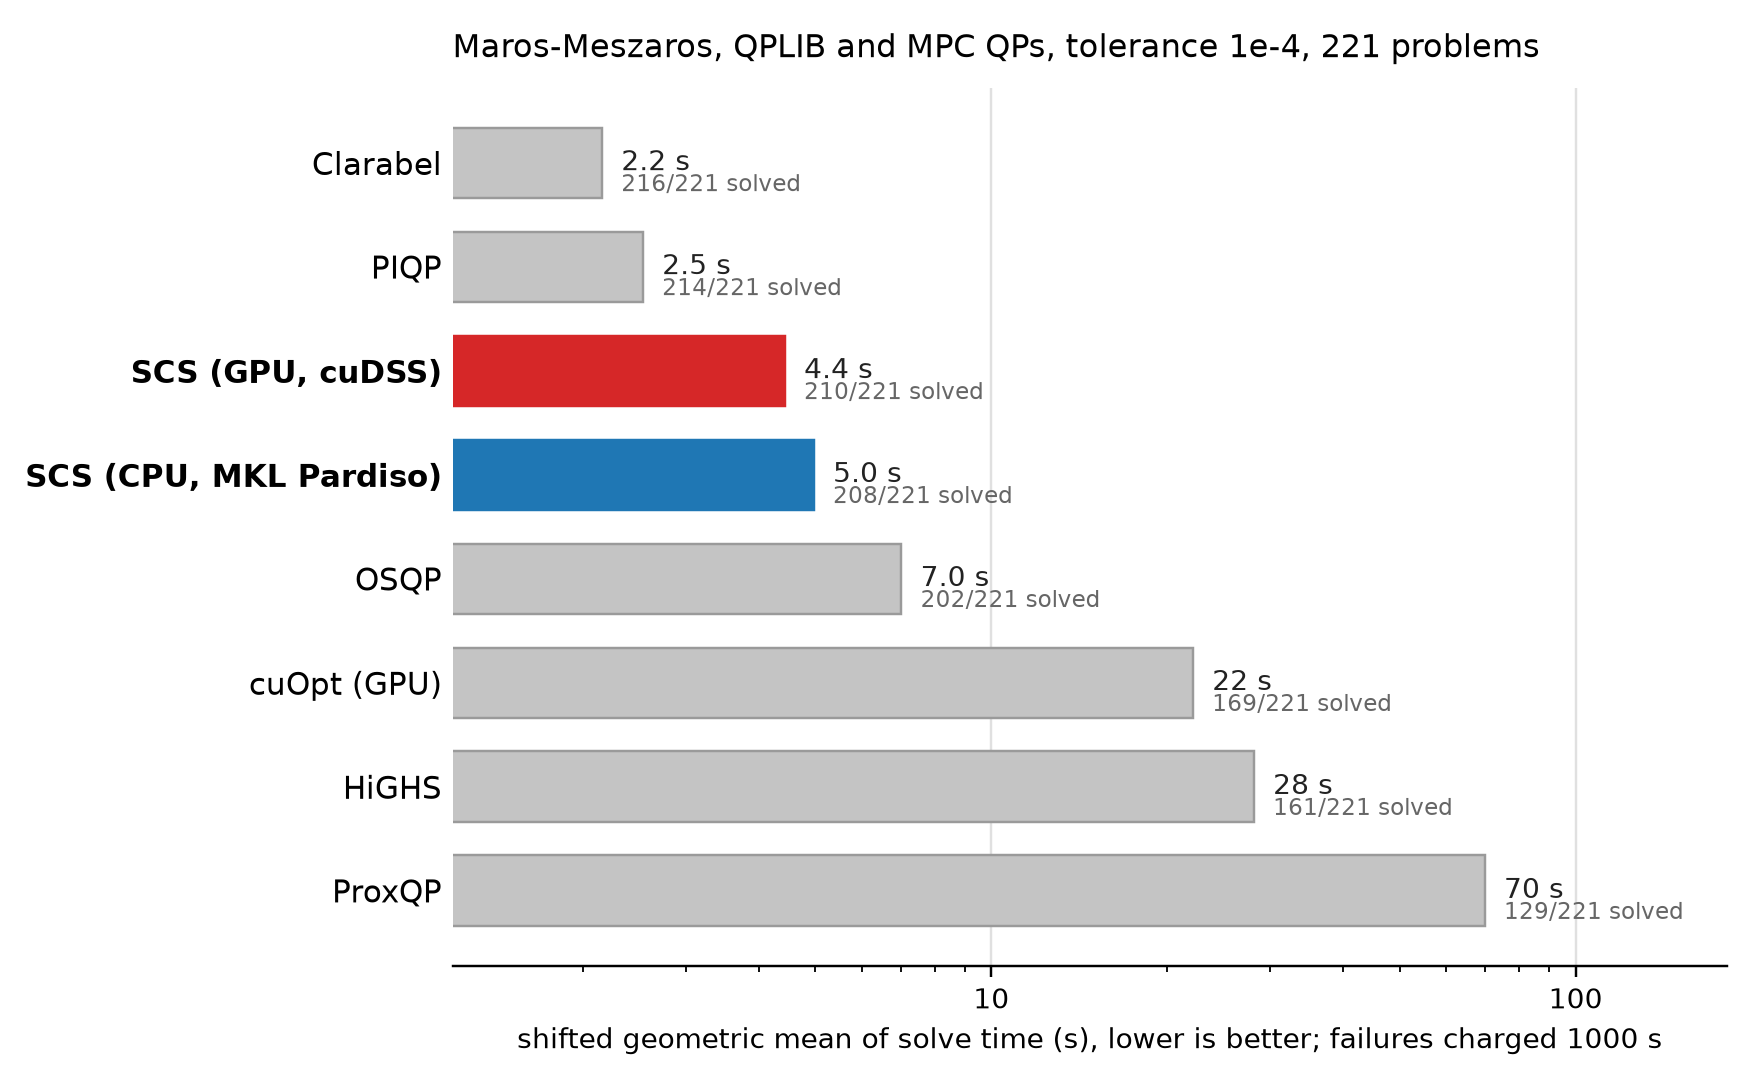
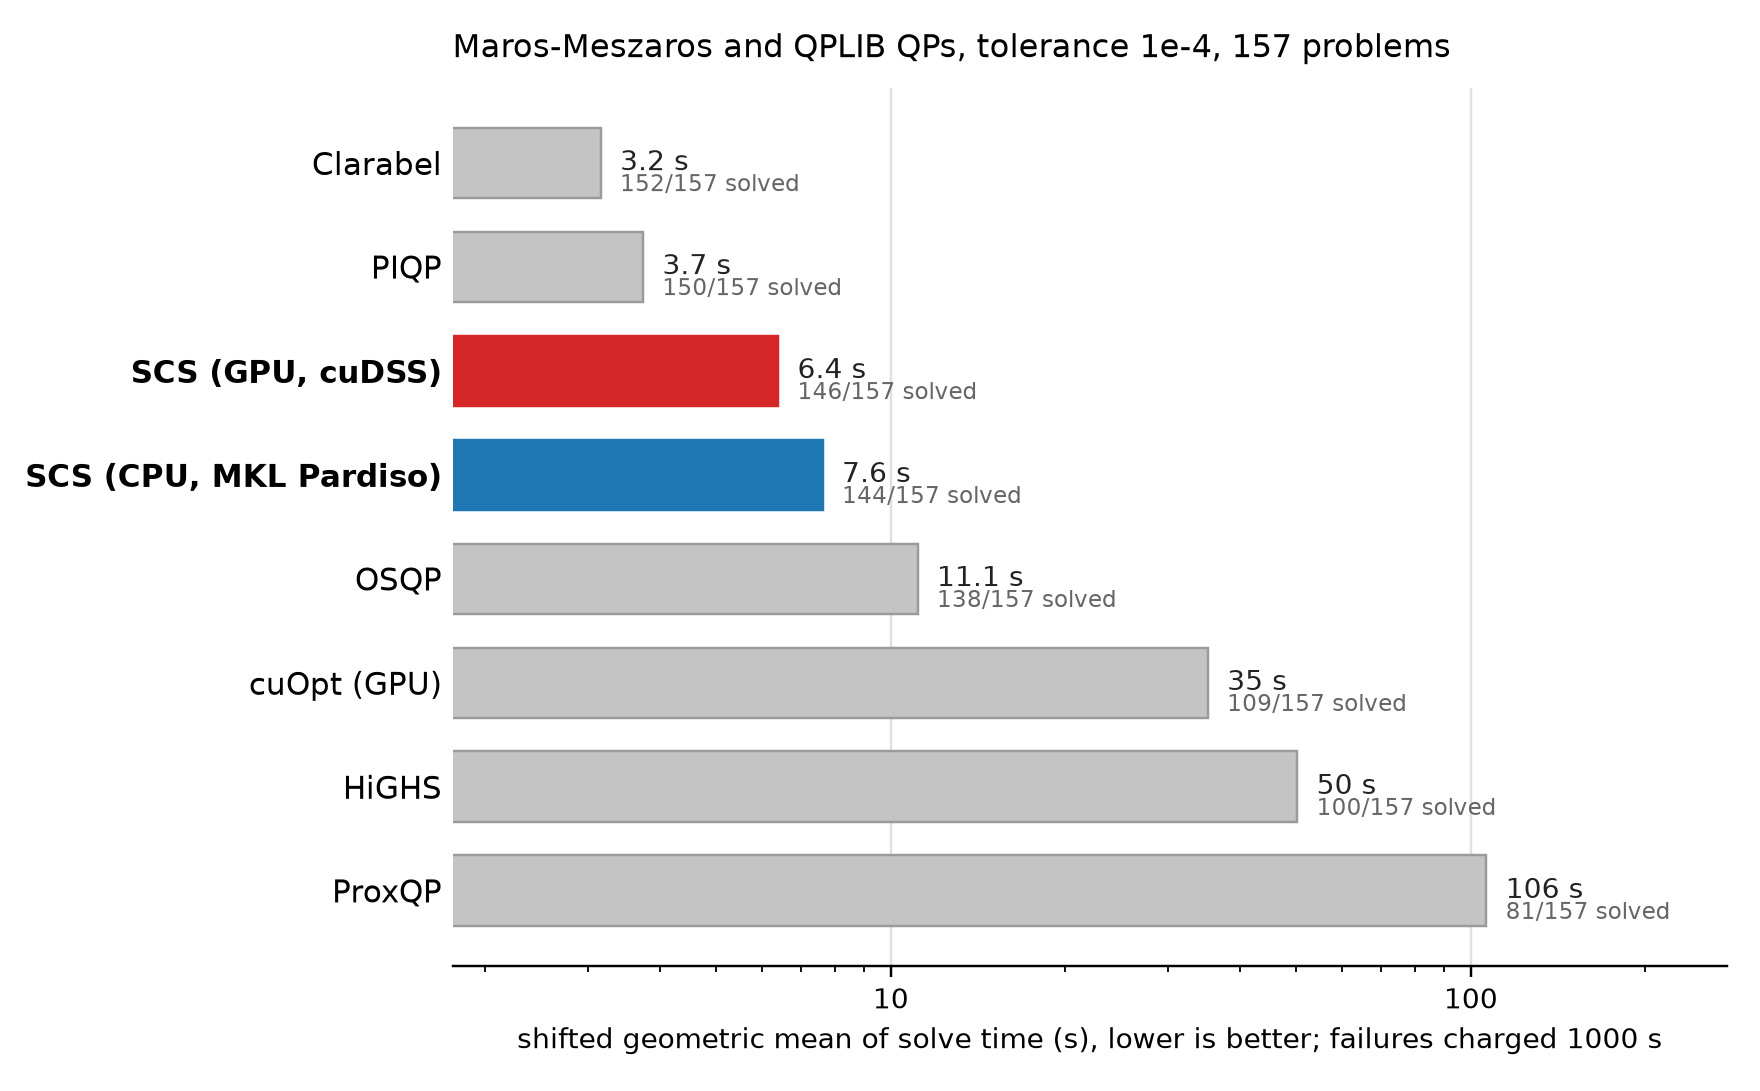
docs: drop the MPC QP set from the benchmarks

diff --git a/docs/src/benchmarks/index.rst b/docs/src/benchmarks/index.rst
@@ -174,8 +174,8 @@ Clarabel, PIQP, OSQP, ProxQP, HiGHS, PDLP (OR-Tools 9.15), NVIDIA cuOpt 26.8,
 CVXOPT and SDPA, each at the latest release on PyPI at the time of the run.
 Commercial solvers were not included.
 
-**Problem sets.** QP: Maros-Meszaros (138), QPLIB continuous convex subset, and
-the ``qpbenchmark`` MPC set. LP: Netlib (feasible), Kennington and the MIPLIB 2017
+**Problem sets.** QP: Maros-Meszaros (138) and the QPLIB continuous convex
+subset (19). LP: Netlib (feasible), Kennington and the MIPLIB 2017
 LP relaxations up to 20 MB; the Mittelmann LP set is its own section. SDP: SDPLIB and the
 Mittelmann SDP set. "Largest quartile" means the quarter of each family with
 the most nonzeros in the constraint matrix (plus the Hessian for QPs).
@@ -193,11 +193,11 @@ failures.
 Quadratic programs
 ------------------
 
-221 problems: Maros-Meszaros (138), the convex continuous QPLIB instances and
-the ``qpbenchmark`` MPC set. On the largest quarter of these, SCS with cuDSS
+157 problems: Maros-Meszaros (138) and the convex continuous QPLIB instances
+(19). On the largest quarter of these, SCS with cuDSS
 has the lowest shifted geometric mean solve time of any solver, SCS on the CPU
 sits between Clarabel and PIQP, and the two SCS variants verify the most
-solutions. Over all 221 problems the interior-point solvers are faster on the
+solutions. Over all 157 problems the interior-point solvers are faster on the
 small instances, where an SCS solve is dominated by fixed setup cost, but SCS
 solves nearly as many problems as they do.
 
@@ -222,7 +222,7 @@ first-order solver by a wide margin.
    :width: 90 %
    :align: center
 
-.. list-table:: QP: verified solves and shifted geometric mean time (s); all 221 problems / largest quartile (56)
+.. list-table:: QP: verified solves and shifted geometric mean time (s); all 157 problems / largest quartile (40)
    :header-rows: 1
    :widths: 26 12 12 12 12 12 12 12 12
 
@@ -236,77 +236,77 @@ first-order solver by a wide margin.
      - solved 1e-6 (largest)
      - gm 1e-6 (largest)
    * - Clarabel
-     - 216
-     - 2.2
-     - 52
-     - 9.7
-     - 212
-     - 3.0
-     - 49
-     - 13.9
+     - 152
+     - 3.2
+     - 37
+     - 12.8
+     - 148
+     - 4.5
+     - 34
+     - 20.0
    * - PIQP
-     - 214
-     - 2.5
-     - 50
-     - 11.4
-     - 214
-     - 2.5
-     - 50
-     - 11.4
+     - 150
+     - 3.7
+     - 34
+     - 18.7
+     - 150
+     - 3.7
+     - 34
+     - 18.7
    * - SCS (GPU, cuDSS)
-     - 210
-     - 4.4
-     - 53
-     - 8.2
-     - 204
-     - 7.9
-     - 47
-     - 23.6
+     - 146
+     - 6.4
+     - 38
+     - 9.5
+     - 140
+     - 12.5
+     - 33
+     - 26.8
    * - SCS (CPU, MKL Pardiso)
-     - 208
-     - 5.0
-     - 53
-     - 10.5
-     - 202
-     - 7.3
-     - 47
-     - 25.0
-   * - OSQP
-     - 202
-     - 7.0
-     - 46
-     - 23.4
-     - 185
-     - 15.9
-     - 43
-     - 45.6
-   * - cuOpt (GPU)
-     - 169
-     - 22.1
-     - 35
-     - 58.8
-     - 163
-     - 25.2
-     - 30
-     - 80.8
-   * - HiGHS
-     - 161
-     - 28.1
-     - 24
-     - 163.6
      - 144
+     - 7.6
+     - 38
+     - 12.9
+     - 138
+     - 11.7
+     - 33
+     - 29.6
+   * - OSQP
+     - 138
+     - 11.1
+     - 32
+     - 30.2
+     - 121
+     - 28.1
+     - 30
      - 43.2
-     - 17
-     - 286.9
+   * - cuOpt (GPU)
+     - 109
+     - 35.2
+     - 32
+     - 23.1
+     - 103
+     - 41.4
+     - 27
+     - 38.7
+   * - HiGHS
+     - 100
+     - 50.2
+     - 13
+     - 288.3
+     - 84
+     - 83.5
+     - 11
+     - 349.8
    * - ProxQP
-     - 129
-     - 69.8
-     - 24
-     - 212.2
-     - 125
-     - 76.6
-     - 15
-     - 425.8
+     - 81
+     - 106.3
+     - 10
+     - 439.7
+     - 85
+     - 93.2
+     - 12
+     - 375.1
 
 .. _bench_lp:
 
